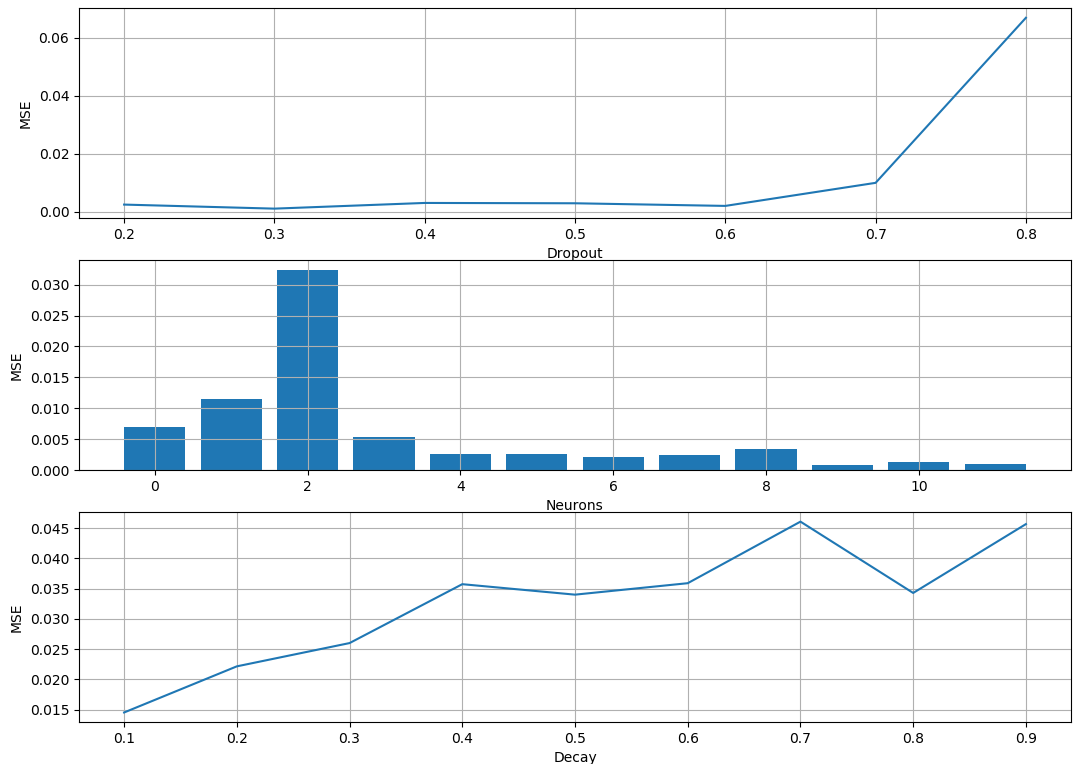
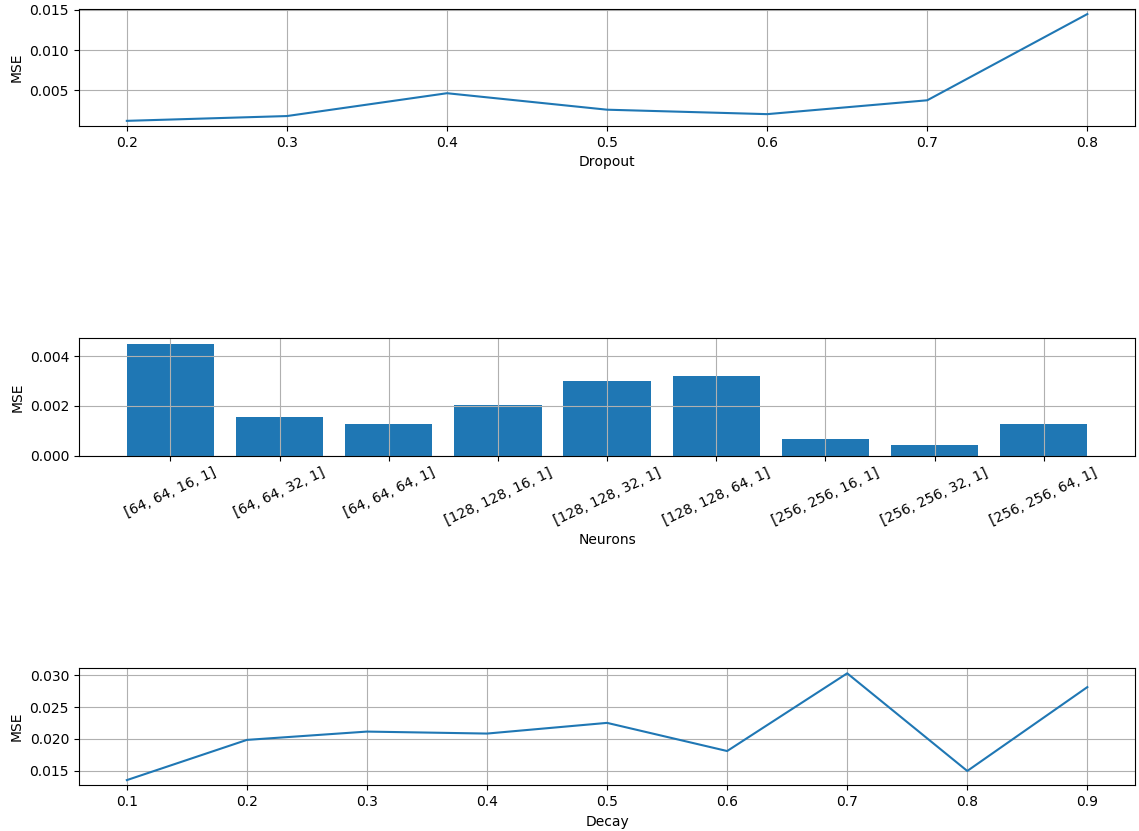
new results

diff --git a/machine_learning/optimized_lstm/lstm_main.py b/machine_learning/optimized_lstm/lstm_main.py
@@ -26,8 +26,8 @@ def main(internal_eval=False):
     #building the LSTM model
     print("\n> building the LSTM model...")
     features = X_train.shape[2]
-    neurons = [256, 256, 16, 1]
-    drop_out = 0.3
+    neurons = [256, 256, 32, 1]
+    drop_out = 0.2
     verbose = 1
     model = lstm.build_model(time_steps, features, neurons, drop_out)
 
@@ -35,8 +35,8 @@ def main(internal_eval=False):
     print("\n> fitting the training data...")
     early_stopping_callback = EarlyStopping(monitor='val_loss', min_delta=0, 
                                             patience=50, verbose=verbose, mode='auto')
-    batch_size = 4096
-    epochs = 200
+    batch_size = 2048
+    epochs = 300
     validation_split = 0.1
     history = lstm.model_fit(model, X_train, Y_train, batch_size, epochs, validation_split,
                              verbose, [early_stopping_callback])

diff --git a/machine_learning/new_evaluation.md b/machine_learning/new_evaluation.md
@@ -26,7 +26,7 @@ python -m machine_learning.optimized_lstm.lstm_main
 | Future Gap | RMSE | MAPE | Corr | R^2 |
 | :--------: | :--: | :--: | :--: | :-: |
 | 1 day      | x    | y    | i    | j   |
-| 1 week     | 0.073| y    | i    | j   |
+| 1 week     | 0.056| 5.075| 0.092| 0.788|
 | 1 month    | x    | y    | i    | j   |
 
 ![Optimized LSTM](https://github.com/ahmedhamdi96/ML4T/blob/master/results/optimized_lstm.png)
@@ -73,16 +73,16 @@ python -m machine_learning.new_regression.new_linear_regression
 ```sh
 python -m machine_learning.optimized_lstm.hyperparam_tune_main
 ```
-*Time Elapsed: 26.5 hours*
+*Time Elapsed: 25 hours*
 
 | Hyperparameter | Optimal Value |
 | :------------: | :-----------: |
-| Dropout        | 0.3           |
-| Neurons        | [256, 256, 16, 1] |
+| Dropout        | 0.2           |
+| Neurons        | [256, 256, 32, 1] |
 | Decay          | 0.1           |
 | Time Steps     | 5             |
-| Batch Size     | 4096          |
-| Epochs         | 200           |
+| Batch Size     | 2048          |
+| Epochs         | 300           |
 
 ![LSTM Hyperparam Tune 1](https://github.com/ahmedhamdi96/ML4T/blob/master/results/hyperparam_tune_lstm1.png)
 ![LSTM Hyperparam Tune 2](https://github.com/ahmedhamdi96/ML4T/blob/master/results/hyperparam_tune_lstm2.png)
